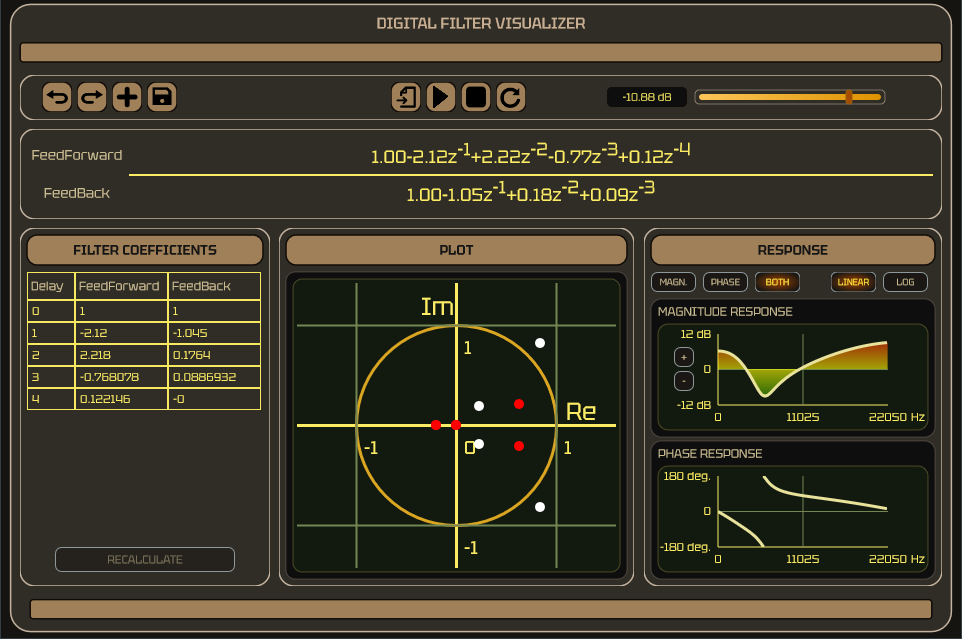
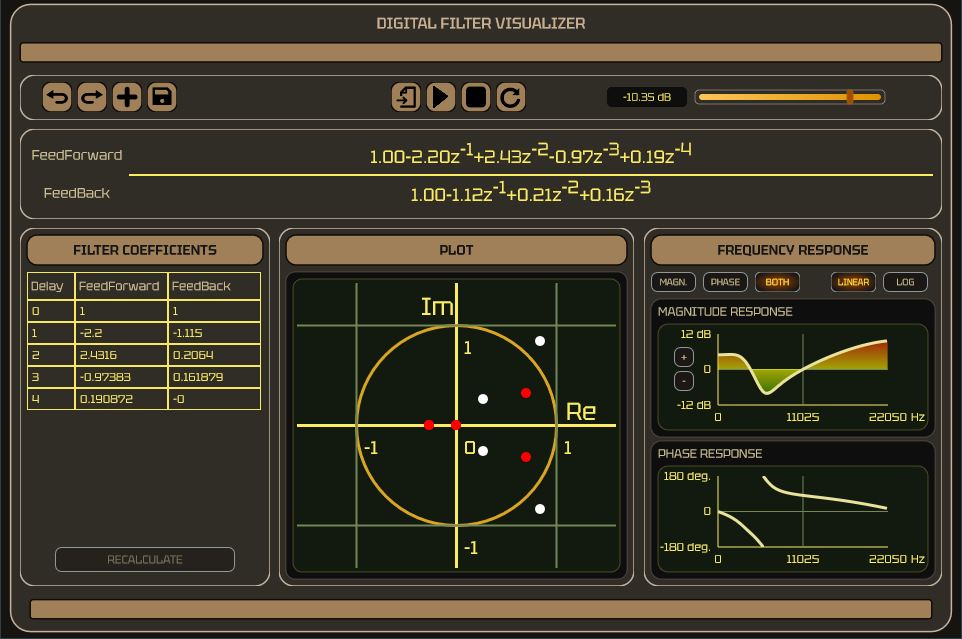
Update README.md.

diff --git a/src/FrequencyResponseViewer.cpp b/src/FrequencyResponseViewer.cpp
@@ -13,7 +13,7 @@ FrequencyResponseViewer::FrequencyResponseViewer(AudioPluginAudioProcessor* p) :
     phaseButton("PHASE"),
     bothButton("BOTH")
 {
-    setName("RESPONSE");
+    setName("FREQUENCY RESPONSE");
     this->processor->addChangeListener(this);
     this->processor->filterState->um->addChangeListener(this);
 

diff --git a/README.md b/README.md
@@ -87,13 +87,27 @@ Level slider | Adjust the audio playback level
 
 #### Complex Plane Editor
 
-- Dragging:
+- Adding roots:
+
+Use **Right-click** for adding a pole, and **Ctrl+Right-click** for adding a zero.
+
+- Moving roots:
 
 The **Complex Plane Editor** allows users to move poles and zeros by dragging them.  Poles and zeros can also be merged by dropping them onto one another. Zeros can be dragged outside the unit circle, but poles cannot. 
+When you hover over a plot, three mode buttons - **def**, **mag**, and **arg** - appear.
+The **def** mode is enabled by default and allows you to move a root freely in any direction.
+Use **mag** mode to preserve the root's magnitude.
+Use **arg** mode to preserve the root's argument.
+Roots that have a non-zero imaginary part are always created and moved together with their complex-conjugate pairs.
+If a root approaches the real axis, the axis changes color. If the mouse button is released at this point, the root will "fall" onto the axis together with its complex-conjugate pair, and its imaginary part will be set to zero. However, the order of the root will not be added to the order of its complex-conjugate pair. Conversely, when a root is moved so that its imaginary part becomes non-zero, its complex-conjugate pair is created with the same order. Therefore, in both cases, the total order of the poles changes. 
 
 - Modifying root order:
 
-Each root has individual `+`, `-`, and `X` buttons. Plus (`+`) increases the root order by one, and minus (`-`) decreases the root order by one. If the order of the root is one, further reducing the order of the root completely erases the root. So does the `X` button for roots of any arbitrary order. However, as the total order of zeros can never exceed the total order of poles, any action that would violate this constraint is therefore prohibited and automatically aborted.
+Each root has individual `+`, `-`, and `X` buttons. Plus (`+`) increases the root order by one, and minus (`-`) decreases the root order by one. If the order of the root is one, further reducing the order of the root completely erases the root. So does the `X` button for roots of any arbitrary order. However, as the total order of zeros can never exceed the total order of poles, additional poles at zero are automatically added when necessary to compensate for the difference in their total orders.
+
+- Moving a plot:
+
+Click and drag a plot for moving, use mouse wheel for changing its scale.
 
 #### Coefficients Table Editor 
 
